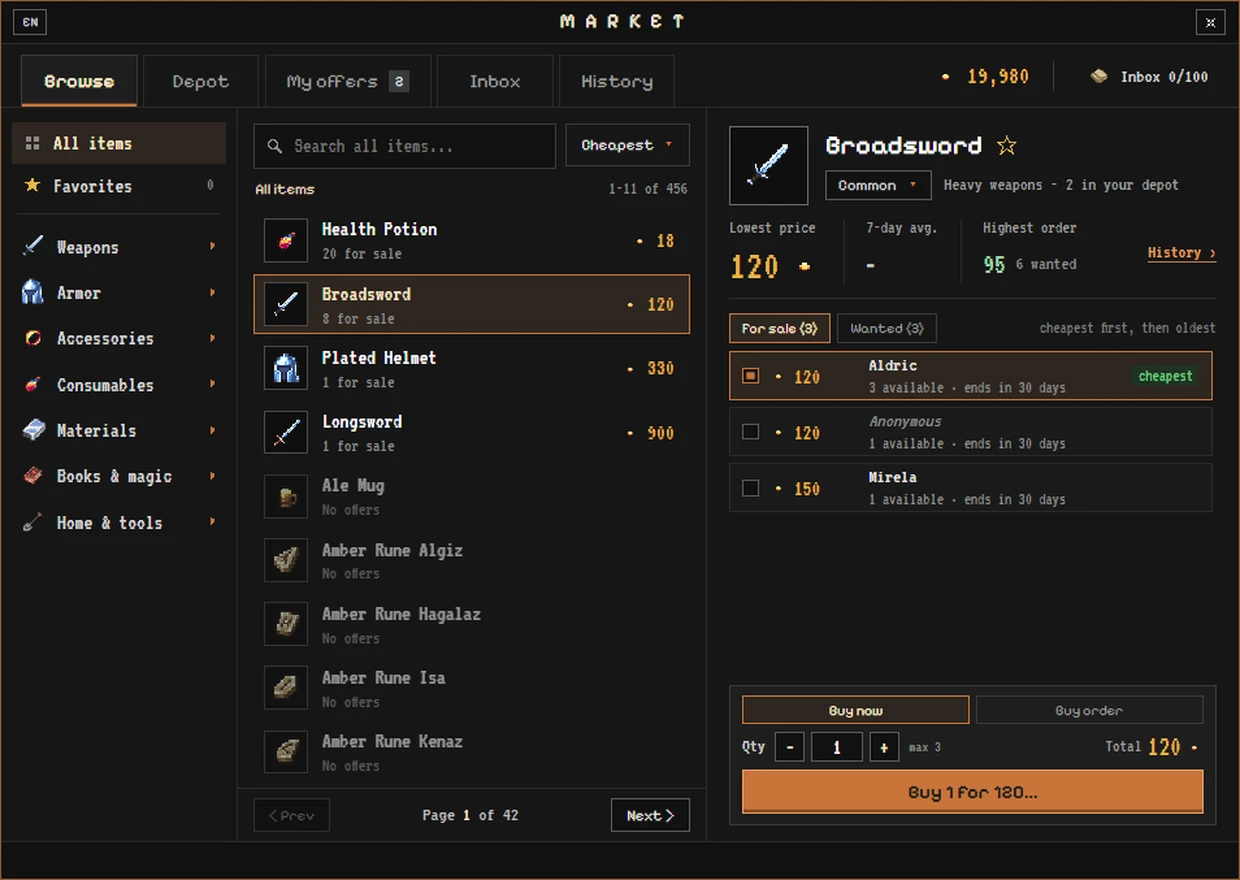
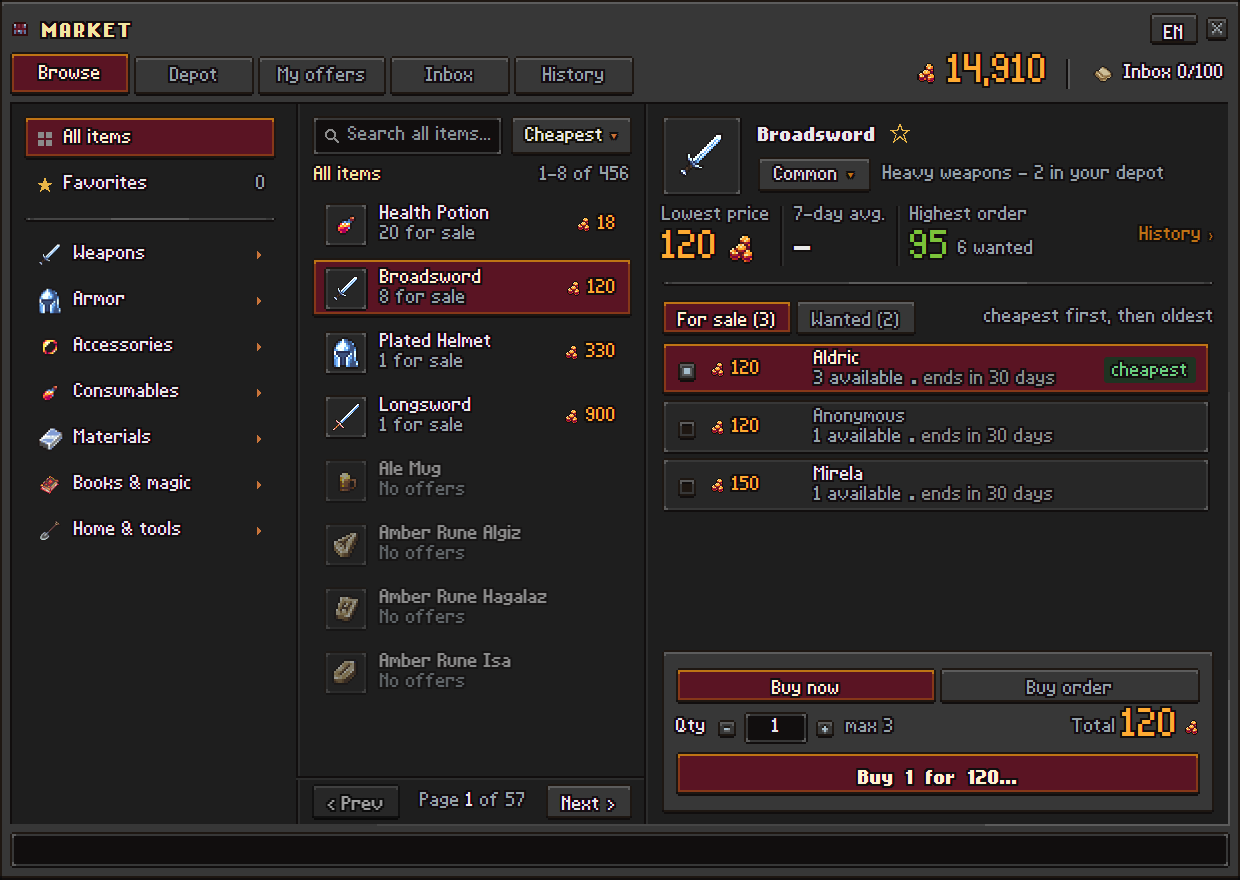
Market picture in the v3 look (Broadsword, three offers)

diff --git a/src/app.js b/src/app.js
@@ -407,7 +407,7 @@
     { img: 'shot-gathering', w: 1057 },
     { img: 'shot-boss', w: 1536 },
     { img: 'shot-motorcycle', w: 1110 },
-    { img: 'shot-market', w: 1054, pos: 'center 20%' }
+    { img: 'shot-market', w: 1240, pos: 'center 20%' }
   ];
 
   /* ------------------------------------------------------------------ */
